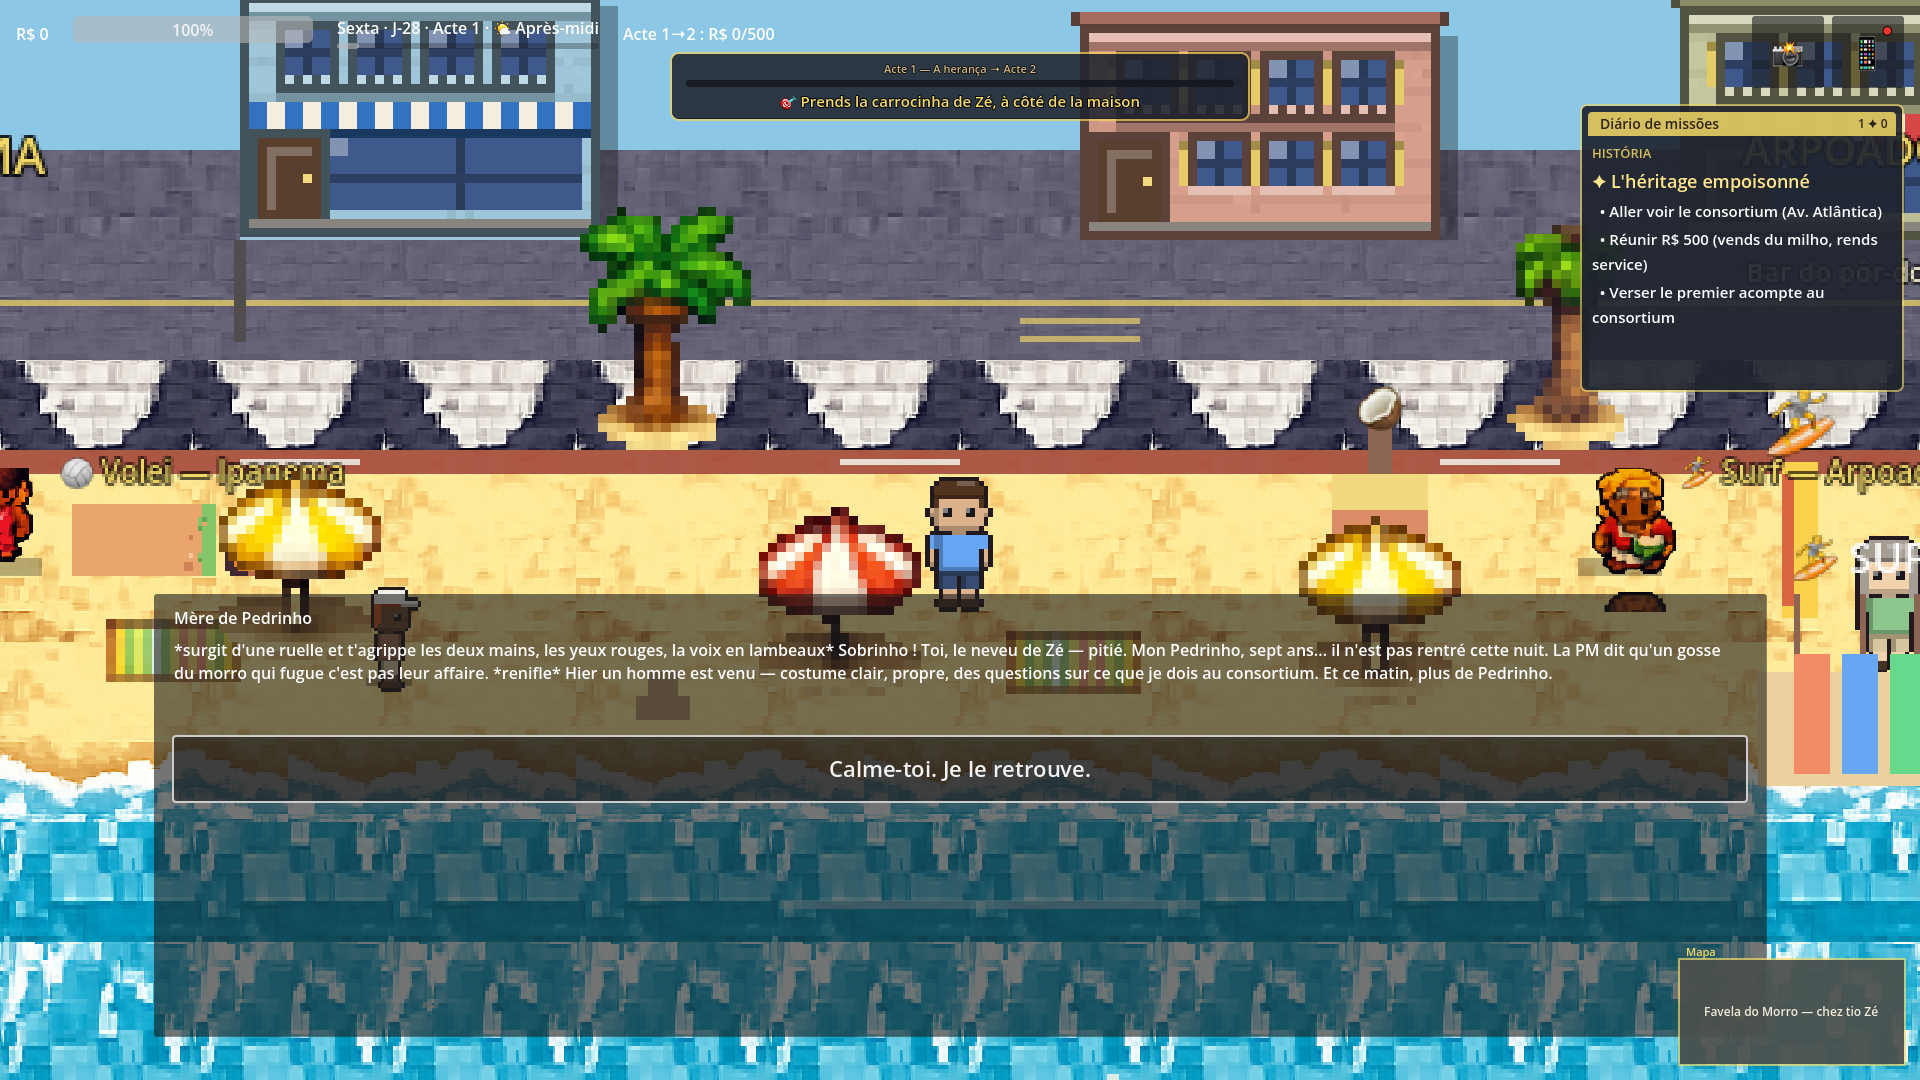
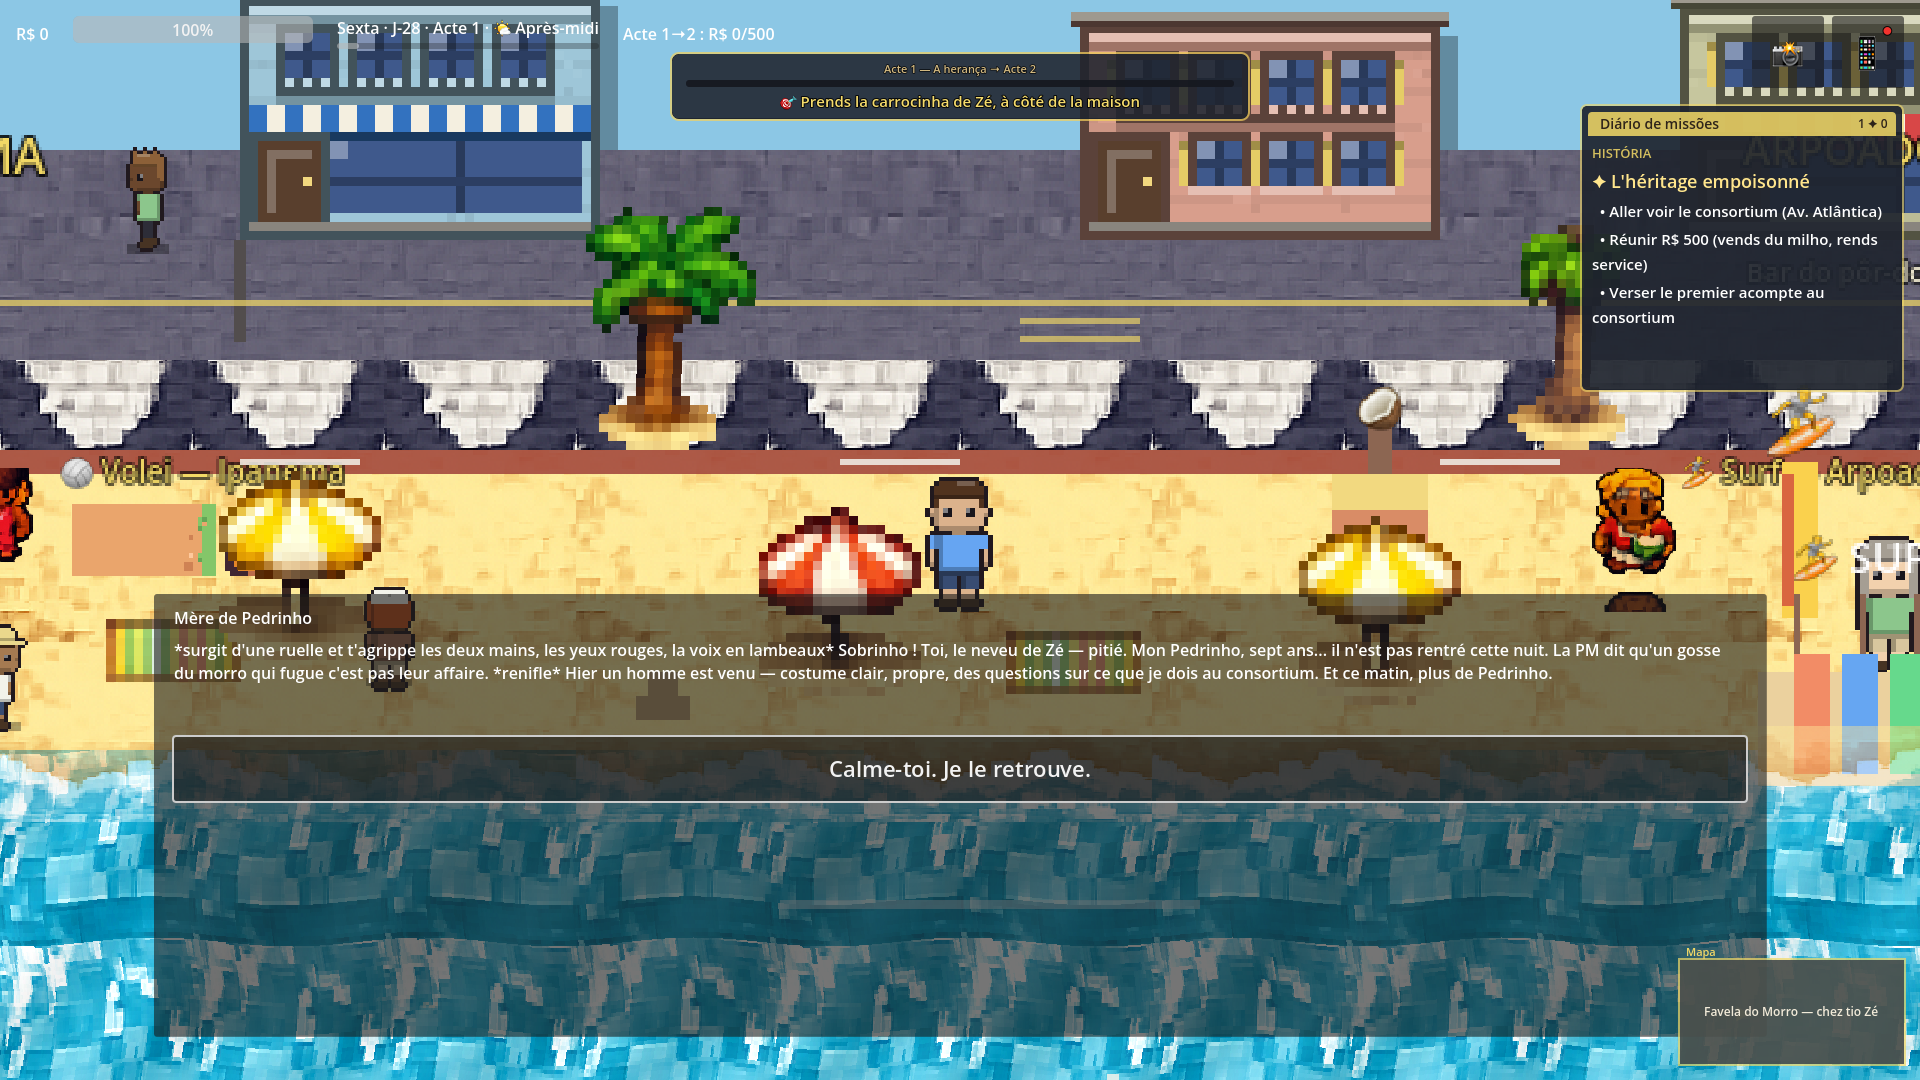
Rendu C + E : décor qui bouge (eau, écume, palmiers, mouettes, poussière) et tri en Y réel
- WorldFx : shaders eau / écume / balancement des palmiers (phase par position),
  enable_y_sort sur le monde et les districts ; Seagulls au ras de l'eau,
  FootDust quand le joueur court sur le sable
- Origine au pied pour tout sprite posé (façades, props, Palace, commerces),
  z_index fixes retirés des personnages ; les enseignes des districts
  remontent d'un cran pour rester devant la façade
- run_tests.sh et visual_refs.sh mettent les sauvegardes à l'abri
- Refs visuelles régénérées, docs (étude, backlog, style) à jour

diff --git a/docs/BACKLOG.md b/docs/BACKLOG.md
@@ -33,7 +33,7 @@ Voir `.claude/skills/ame-carioca` pour les principes. Mise à jour via le skill 
 
 - [x] **Dé-cloner les 4 voies : un verbe par voie** — Tráfico : A2/A4 déclenchent des poursuites PM à semer (rattrapé = amende, relance au spot) ; Polícia : B2/B5 sont des filatures StakeoutZone (bande 70-240 px, suspect qui déambule) ; Consórcio : C3/C8 sont des négociations à tell lisible (mauvaise approche = caution 200-250 R$ perdue, rejouable) ; Prefeito : D5 est un mutirão (3 personnes à convaincre, chacune son levier). Pourquoi : « la même mission jouée 9 fois, reskinnée 4 fois » — critique du 2026-07-15. (ajouté 2026-07-15, livré 2026-07-16) — Extension au milieu de chaîne livrée le 2026-07-21 : B4 = filature du dealer avant le coffrage, C5 = négociation à tell avec l'attachée du MAC, D3 = médiation à témoins chaînés (Cléo nomme le levier de Neném), D4 = vraie escorte physique de la procession (EscortFollower, 884→-240 dans Ipanema). Beats mécaniques MAIN : 9 → 15. — Deuxième tranche livrée le 2026-07-21 (les 9 restantes) : les 4 tioze jouent le même beat « quelqu'un d'autre surveille le concierge » chacun dans son verbe (A7 semer l'ombre de la Baía — FUITE ; B6 repérer le guetteur du perron — planque ; C6 la fiche d'Ataíde au bon levier — ni argent ni ordre ; D7 la médaille d'Expedito en écoutant vraiment) ; A5 = les cris alertent une patrouille à semer ; A6 = la traversée SUP des Cagarras devient le mini-jeu `cagarras_sup` (dont le lanceur `SupRental.tscn` n'était instancié nulle part — mini-jeu mort, désormais branché sur la plage de ZonaSul) ; B3 = la patrouille marche derrière toi jusqu'au garage aux volets verts (EscortFollower) ; C7 = négociation à tell avec le président de la Península (il lui faut une histoire, pas un chèque) ; D6 = le discours d'inauguration au MAC à la bonne prise. **Beats mécaniques MAIN : 24/45 (~53 %) — objectif ~50 % atteint, les 4 voies jouent leur verbe sur toute la chaîne.**
 - [x] **Gabarit « enquête Pedrinho » pour les jalons de voie** — livré sur les TROIS beats. Arrivée : interception « le donneur vient à toi » (DialogueTriggerZone). Pivot tio Zé : enquête à 2 témoins chaînés + concierge « retenu » tant qu'on ne porte pas une lembrança de Zé (photo de colônia, chope gravée, fiche au faux nom, médaille de bloco — zéro argent). Gros coup : préparation + rétention + climax au verbe de la voie — A8 filière Mafia da Baía puis flagrante à semer sur les quais, B8 briefing PM puis la planque la plus dure du jeu (28 s dans la foule du Maracanã), D8 le Padre convaincu qui marche physiquement en cortège derrière toi jusqu'à la tribune (EscortFollower), C8 déjà en négociation. Pourquoi : le pivot émotionnel était livré comme une course de routine. (ajouté 2026-07-15, livré 2026-07-17)
-- [ ] **Rendu visuel — étude des possibilités** — `docs/VISUEL_ETUDE_2026-10-08.md` : captures du jeu complet (outil `tools/ScreenshotMain.tscn`), trois langages graphiques qui cohabitent (façades peintes / personnages GBA / aplats partout ailleurs). Pistes classées : A façades en pixel-art modulaire (peintre procédural ou atlas), B sols et ombres hors Copa, C décor qui bouge (mer, palmiers, stores), D nuit et lumières, E échelle et tri en Y, F hygiène pixel (échelle entière), G interface repliée et cadres cohérents, H intérieurs, I captures de référence. Séquence recommandée F+I → A+B → D+C → G → H. Pourquoi : « Copacabana est OK, le reste est décevant » tient aux aplats, pas au contenu ; dès qu'on quitte les 4 façades peintes, le jeu redevient un prototype à rectangles. (ajouté 2026-10-08) — **F, I et A livrés le 2026-10-08** : props à la densité GBA (`PropSprites.resampled`), captures de référence (`tools/visual_refs.sh`) + `docs/STYLE_VISUEL.md`, et `FacadePainter` (peintre procédural, styles copa/favela/igreja) branché sur toutes les façades en rects (Copa, 6 repères, morro, 12 districts). B et D livrés le 2026-10-08 : `GroundPainter` (pavés, terre, escaliers — groupe `ground_stairs`) dans `DistrictDresser`, fenêtres allumées (`FacadePainter.build_night`) et matériau émissif + halos radiaux dans `DayLighting`. Restent C (décor qui bouge), E (échelle, tri en Y), G (interface), H (intérieurs).
+- [ ] **Rendu visuel — étude des possibilités** — `docs/VISUEL_ETUDE_2026-10-08.md` : captures du jeu complet (outil `tools/ScreenshotMain.tscn`), trois langages graphiques qui cohabitent (façades peintes / personnages GBA / aplats partout ailleurs). Pistes classées : A façades en pixel-art modulaire (peintre procédural ou atlas), B sols et ombres hors Copa, C décor qui bouge (mer, palmiers, stores), D nuit et lumières, E échelle et tri en Y, F hygiène pixel (échelle entière), G interface repliée et cadres cohérents, H intérieurs, I captures de référence. Séquence recommandée F+I → A+B → D+C → G → H. Pourquoi : « Copacabana est OK, le reste est décevant » tient aux aplats, pas au contenu ; dès qu'on quitte les 4 façades peintes, le jeu redevient un prototype à rectangles. (ajouté 2026-10-08) — **F, I et A livrés le 2026-10-08** : props à la densité GBA (`PropSprites.resampled`), captures de référence (`tools/visual_refs.sh`) + `docs/STYLE_VISUEL.md`, et `FacadePainter` (peintre procédural, styles copa/favela/igreja) branché sur toutes les façades en rects (Copa, 6 repères, morro, 12 districts). B et D livrés le 2026-10-08 : `GroundPainter` (pavés, terre, escaliers — groupe `ground_stairs`) dans `DistrictDresser`, fenêtres allumées (`FacadePainter.build_night`) et matériau émissif + halos radiaux dans `DayLighting`. C et E livrés le 2026-10-08 : `WorldFx` (shaders eau / écume / balancement des palmiers, tri en Y activé sur le monde et les districts, origine des sprites au pied), `Seagulls` et `FootDust`. Restent G (interface), H (intérieurs).
 - [ ] **Playtest grandeur nature (bot-joueur) — 10 constats** — `docs/PLAYTEST_2026-10-07.md` : un bot qui joue le vrai jeu sans téléport ni connaissance du code (`tools/playtest/run_playtest.sh`) a mesuré 7 runs. À traiter par impact : F1 missions dynamiques farmables sur place (650 R$ en 40 s, le même template re-tiré) ; F2 guidage du prologue mort (`act1_started` posé avant Pedrinho) ; F3 « Rentre dîner » sans dîner + ping-pong favela/Copa chaque soir ; F4 taxi du téléphone qui contourne le verrou du morro ; F5 milho acte 1 = 15-45 R$ une fois pour toutes (3 clients, `has_purchased` jamais remis) ; F6 charrette portée collée au joueur après la bascule d'acte ; F7 spots de voies futures parlables dans le prologue ; F8 83 s de narrateur avant le premier pas ; F9 nouvelle partie = NG+ dès qu'un `ng_plus.json` existe ; F10 couture Arpoador qui annule les poursuites, guidage « → Pão de Açúcar » sans transport. Pourquoi : les tests e2e téléportent et ne voient ni le rythme ni les contradictions de guidage. (ajouté 2026-10-07) — F2, F3, F6 livrés le 2026-10-08 : le prologue prime sur la logique d'acte (ancres `spot:` sur les 4 témoins, prologue bouclé à 6 min au lieu de 10 min 30 au run 8), le jantar devient un beat quotidien chez mãe (variante `phase: 2` + flag-jour `jantar_day`, le rappel du soir s'éteint une fois servi et pointe la porte de la maison dans la favela), la charrette portée est déposée à la bascule d'acte. F1 livré le 2026-10-08 : un job ne se re-tire pas aussitôt (titre du dernier joué/expiré exclu du tirage) et la paie suit la distance réelle depuis le point d'acceptation (pleine paie à 700 px, 30 % sous les pieds, inter-districts = pleine). F4, F5, F7 livrés le 2026-10-08 : le taxi (téléphone et borne) respecte le verrou du prologue (`DistrictManager.travel_lock_reason`), les 3 clients du milho se ré-arment à chaque prise de la carrocinha et à chaque phase, les 7 spots de voie du morro et les 4 spots « contact » de Copa attendent l'acte 2 (`ReactiveDialogueSpot.required_act`). F8, F9, F10 livrés le 2026-10-08 : intro en 4 écrans et 963 caractères (le sermon des voies et le mode d'emploi longs sont partis — le jeu les redit en acte 2 et au tutoriel), NG+ seulement quand l'épilogue le demande (`GameManager.ng_plus_requested`), le cobrador apparaît sur du sol libre et n'abandonne par distance qu'après 3 s, et « → Pão de Açúcar » se guide via Botafogo puis la borne du bondinho (`_route_via_bondinho`, ancre `class:BondinhoLauncher`). Les 10 constats du playtest sont traités ; reste le spot du reinado R1 et les deux étapes B6 à ancre générique. Les runs 11-17 (2026-10-08) ont ensuite corrigé le guidage des voies : ancre d'un PNJ d'intérieur → porte du bâtiment, « continue ta voie » → donneur réel de la prochaine MAIN, ancres des missions intro et du garçom (B6), B9 → Ramos avant le morro ; résultat : voie Polícia bouclée en 95 min (acte 5, dette soldée) au run 17. À regarder : le spot du reinado R1 (« les tiens te cherchent sur le calçadão ») reste introuvable 25 min, même ancre générique.
 - [x] **Économie du milieu de partie sans grind** — verbe `debt_credit` (le patron crédite la dette sans ponctionner le cash) posé sur les beats des 4 chaînes (~2 500/voie : A 200/400/500/600/800, B/C/D équivalents) + pêcheur (300) ; rewards des missions dynamiques relevés (base 80-1300, + bonus Rapidinho) comme moteur de cash principal. Les seuils 2000/6000 se franchissent en jouant la trame. Pourquoi : le rythme cassait mécaniquement entre deux jalons — critique du 2026-07-15. (ajouté 2026-07-15, livré 2026-07-16)
 - [x] **Un acte 5 qui se joue (Reinado)** — 2 quêtes MAIN de règne par voie entre le couronnement et le desfile, dans le verbe de la voie : Tráfico = pedágio des camelôs + blitz à semer, puis carga du camarote en CHRONO ; Polícia = batedor du bloco en planque + la Sapucaí à balayer seul ; Consórcio = charte « Copacabana Riserva » (le barraqueiro à la photo) + le camarote de l'école contre l'ala des enfants ; Prefeito = monter le Bloco do Bairro (Dona Filó, Careca et sa marchinha) + l'ordre des alas (les gosses devant). Climax au Sambódromo (district squelettique désormais meublé de 4 spots), guidage acte 5 réécrit (règne d'abord, desfile en climax), toasts jalons chaînés jusqu'au desfile, et Copa reflète le règne (`_rebuild_reinado()` : faixa + habitant dont le salut dit ce que le bairro pense du pouvoir — crainte, gratitude ambiguë, uniformisation ou fierté). E2e : les 4 reinados joués jusqu'au bout dans la suite. Pourquoi : « l'acte 5 = 1 mini-jeu + un écran de texte » — diagnostic du 2026-07-21. (ajouté 2026-07-21, livré 2026-07-21)

diff --git a/docs/STYLE_VISUEL.md b/docs/STYLE_VISUEL.md
@@ -20,12 +20,23 @@ est dessiné ou rééchantillonné respecte cette grille.
    (morro) sont les bases ; les rampes dérivent par `FacadePainter.ramp()`
    (−35 % / base / +12 % / vitres bleu `WINDOW_COLOR`). Pas de couleur
    « Godot » brute (ni blanc pur ni noir pur sur une surface).
-6. **Ancrage** : un prop ou un personnage est ancré par ses pieds ; un
-   bâtiment par le bas de sa façade. Le tri en Y suit l'ancre.
-7. **Tailles** : porte 7×9 natifs, fenêtre 5×5, étage 8 natifs (rez-de-chaussée 10), un personnage fait un étage et demi. Un bâtiment de Copa = 33×21 natifs, une maison du morro = 13-40 natifs de haut. Sols peints : tuile 16×16 natifs (48 px monde), marche de 3 natifs.
-   personnage fait un étage. Un bâtiment de Copa = 33×21 natifs, une maison du
-   morro = 14-20 natifs de haut.
-8. **Texte dans le monde** : étiquettes en police UI avec contour, jamais
+6. **Ancrage et tri** : un prop ou un personnage est ancré par ses pieds ;
+   un bâtiment par le bas de sa façade. Le monde est en `y_sort_enabled`
+   (`WorldFx.enable_y_sort`) : l'ordre de dessin suit l'origine du nœud,
+   donc **l'origine d'un Sprite2D est toujours au pied** — `position` = la
+   base, `offset = Vector2(0, -hauteur*0.5)` (ou `-hauteur` avec `centered`
+   à faux) remonte le dessin. Pas de `z_index` fixe sur ce qui vit dans le
+   monde ; il reste réservé aux sols (négatif) et aux effets au ras de l'eau.
+7. **Tailles** : porte 7×9 natifs, fenêtre 5×5, étage 8 natifs
+   (rez-de-chaussée 10), un personnage fait un étage et demi. Un bâtiment de
+   Copa = 33×21 natifs, une maison du morro = 13-40 natifs de haut. Sols
+   peints : tuile 16×16 natifs (48 px monde), marche de 3 natifs.
+8. **Mouvement** : l'eau, l'écume et les couronnes de palmiers bougent par
+   shader (`WorldFx`), phase dérivée de la position pour ne jamais être en
+   chœur ; les mouettes et la poussière de pas sont les seuls éléments
+   animés en code. Tout mouvement est lent (périodes de 2 à 6 s) : il doit
+   se remarquer à la deuxième seconde, pas à la première.
+9. **Texte dans le monde** : étiquettes en police UI avec contour, jamais
    dessinées dans les sprites (localisation).
 
 ## Vérifier

diff --git a/docs/VISUEL_ETUDE_2026-10-08.md b/docs/VISUEL_ETUDE_2026-10-08.md
@@ -161,6 +161,29 @@ contour) pour que tout nouvel asset respecte le langage GBA.
   de taches jaunes assombries. Non fait : reflets sur la mer, néons des
   enseignes de l'atlas, ombres longues du matin.
 
+- **C** : `scripts/world/WorldFx.gd` — trois shaders de monde : **eau**
+  (deux ondes lentes qui décalent l'UV et une bande claire mobile), **écume**
+  (opacité qui respire, déphasée selon la position) et **balancement** des
+  couronnes de palmiers (torsion douce par l'UV, pied immobile, phase par
+  position). Posés sur les tuiles de mer et l'écume de Copa comme des
+  districts (`DistrictDresser`), et sur chaque palmier via `PropSprites`.
+  **Mouettes** (`Seagulls.gd`, oiseaux 9×5 natifs à 2 frames) qui glissent
+  dans une bande au ras de l'eau et rebouclent. **Poussière de pas**
+  (`FootDust.gd`, bouffées tous les 22 px quand le joueur court sur le
+  sable). Non fait : stores et drapeaux animés, ombres des nuages.
+- **E** : **tri en Y** réel. `WorldFx.enable_y_sort` active `y_sort_enabled`
+  sur le monde et ses conteneurs ; les `z_index` fixes des personnages
+  (joueur, PNJ, clients, Miguel, PM) sont retirés des scènes ; toute texture
+  posée (façades `Facade`/`FacadeNight`, palmiers, parasols, carrocinha,
+  Palace et commerces peints) a son **origine au pied** (`position` = base,
+  `offset` remonte le dessin) pour que l'ordre de dessin suive la hauteur à
+  l'écran. Un personnage passe désormais derrière la couronne d'un palmier
+  et devant une façade dont il dépasse la base. Les toits reçoivent une
+  dalle (`RoofEdge`) qui lit comme un volume vu d'en haut. Les tests
+  (`TestGroupWorld`) vérifient l'ancrage du sprite de façade.
+
+Restent **G** (interface) et **H** (intérieurs).
+
 ## Séquence recommandée
 
 1. **F + I** (1 j) : pixels propres et captures de référence — on mesure
